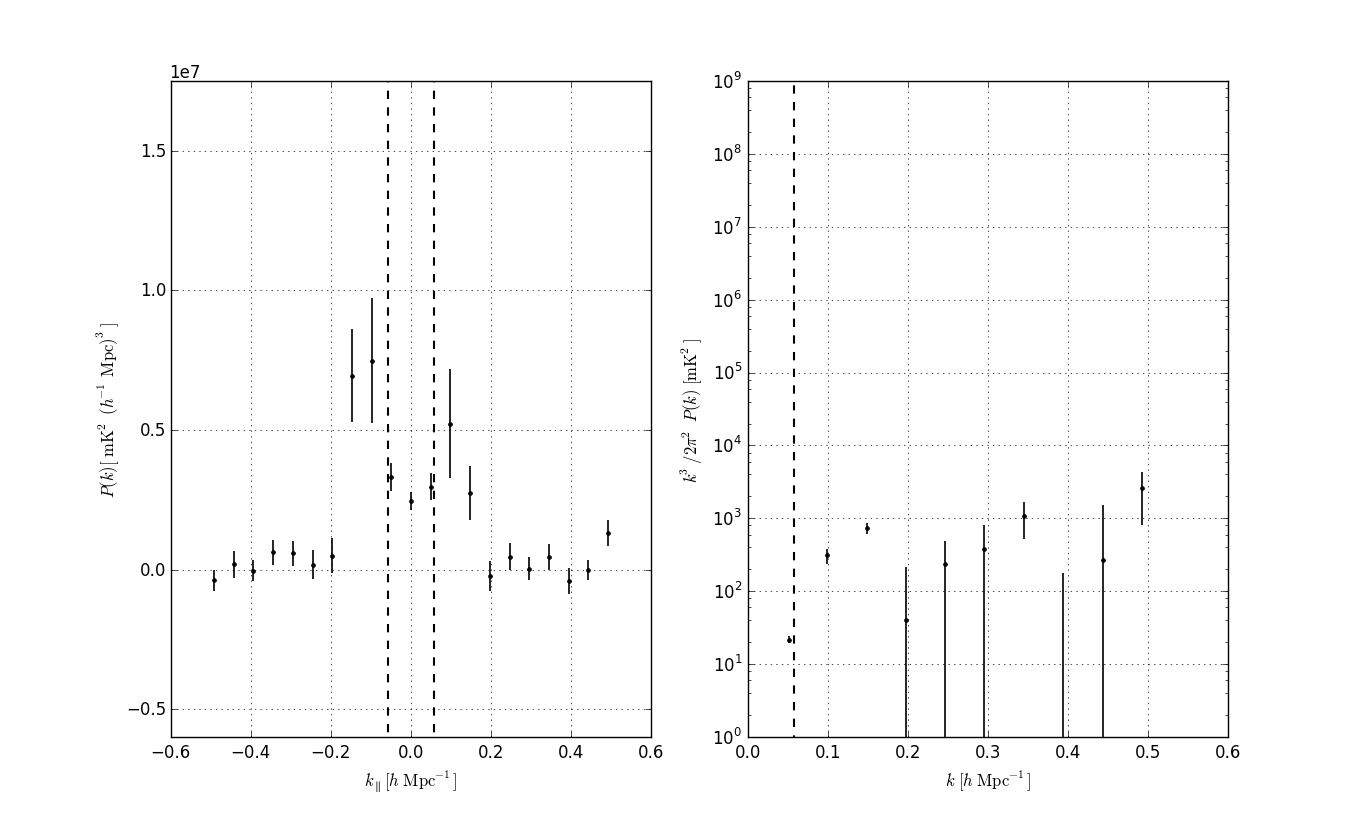
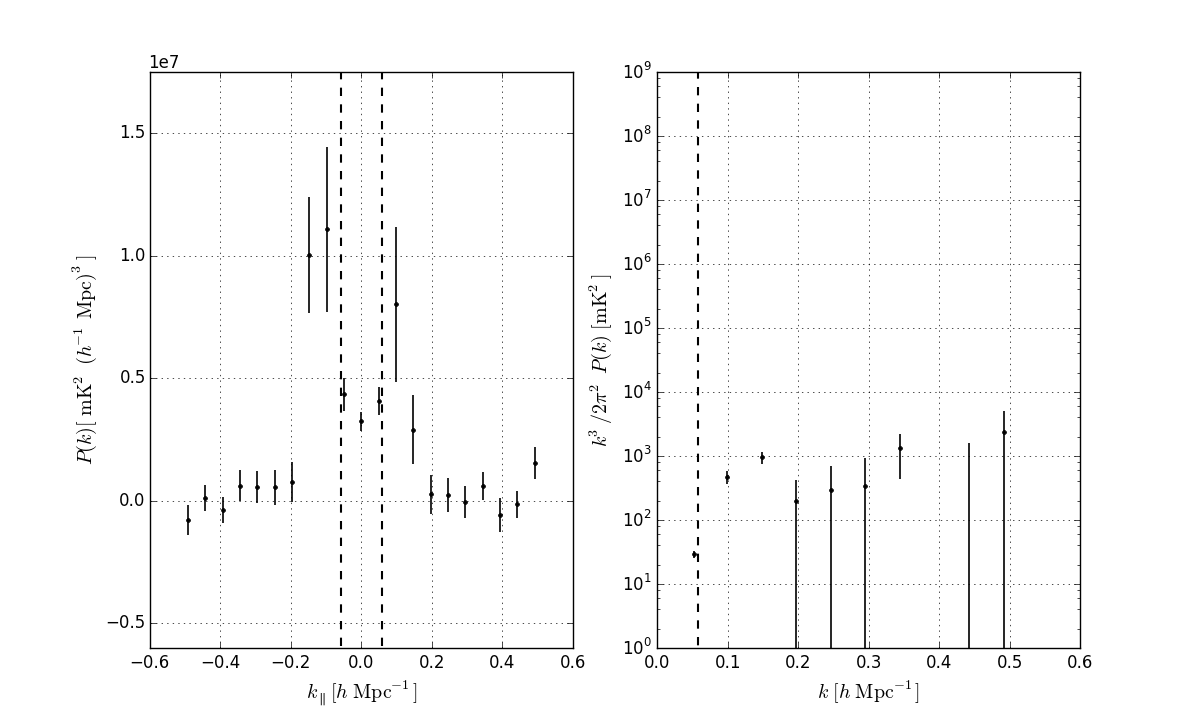
add in final pspec fplots (hopefully)
update capotion with extra info.

diff --git a/psa64_pspec_ver2.tex b/psa64_pspec_ver2.tex
@@ -1901,15 +1901,27 @@ XXX Need to claim that we ran an end to end test.
 \subsection{Bootstrapped Errors}
 %XXX QUESTION FOR BOOTSTRAPPING, Use the input data to the quad est vs output
 %data? Is this why the error bars were so wacked out before?
-We calculate a power spectrum, averaged over baseline cross multiples, for every
-integration. 
-We measure the error in our final power spectrum estimate by bootstrapping over
-baseline samples from the output of the quadratic estimator. That is, we are
-bootstrapping over power spectra averaged over baselines per LST sample. In order
-to tease out the variations between baselines, each bootstrap is a random pull
-of the baselines involvled in the analysis, choosing $N-5$ out of $N$
-baselines. For different baseline types, $N$ ranges from 46 (up/under one and
-over one baselines) to 51 (East-West). 
+When estimating our power spectra via optimal quadratic estimators, we generate
+multiple samples of the power spectrum in order to apply the bootstrap method to
+calculate our error bars. When applying this method of estimating the
+statistical variance in our data, we require that there needs to be a random
+component in our estimates of power spectra. 
+
+We use the baseline axis as our random draw axis. For each bootstrap sample  by
+taking our 
+
+
+
+
+Output from the optimal quadratic estimator power spectrum pipeline, is the
+power spectrum We calculate a power spectrum, averaged over baseline cross
+multiples, for every integration.  We measure the error in our final power
+spectrum estimate by bootstrapping over baseline samples from the output of the
+quadratic estimator. That is, we are bootstrapping over power spectra averaged
+over baselines per LST sample. In order to tease out the variations between
+baselines, each bootstrap is a random pull of the baselines involvled in the
+analysis, choosing $N-5$ out of $N$ baselines. For different baseline types, $N$
+ranges from 46 (up/under one and over one baselines) to 51 (East-West). 
 
 In order to avoid incurring a noise bias, a few restrictions are needed to the
 bootstrapping and power spectrum estimation. First, we break the baselines into
@@ -2228,7 +2240,7 @@ hence \ref{eqn:final_tb} becomes...
 %    Jonnies result.
 %   -the wedge - maybe?
 \begin{figure*}[h!]\centering
-\includegraphics[width=1.5\columnwidth,height=1\columnwidth]{plots/pk_k3pk.png}
+\includegraphics[width=2\columnwidth,height=1.2\columnwidth]{plots/pk_k3pk.png}
 \caption{
 Power spectrum at $z=8.4$ resulting from a 134 day PAPER observation
 with 64 dual polarization antennas layed out in a maximally redundant grid. The
@@ -2240,7 +2252,8 @@ which has the positive and negative $k_{\parallel}$'s averaged together in
 P($k$). XXX (To be done) The solid cyan curve is the power spectrum of the
 foreground contained data. The dashed cyan curve in $\Delta^{2}$ correspond the
 the theoretical 2 sigma error bars for a noise power spectrum with system
-temperature 550 K.
+temperature 550 K. XXX Using 100 bootstraps. Correction factors are fringe rate
+filter (1.9), signal loss (1.15), and median statistic (1.4)
 }
 \label{fig:final_pspec}
 \end{figure*}
@@ -2249,7 +2262,8 @@ temperature 550 K.
 \includegraphics[width=\columnwidth]{plots/flat_k3pk_posterior.png}
 \caption{The posteriror distributiom assuming a flat, gaussian power spectrum in
 $\Delta^{2}$ (blue). The green and red horizontal lines correspond to the 1 and
-2 $\sigma$ upper limits, respectrively, on the power spectrum.}
+2 $\sigma$ upper limits, respectrively, on the power spectrum. XXXfix sigma
+lines to be vertical. Make it look better. Labels.}
 \label{fig:final_posterioir}
 \end{figure}
 
@@ -2281,7 +2295,7 @@ data and non optimal fringe rate filter]
 %
 
 \begin{figure*}[t!]\centering
-\includegraphics[width=1.5\columnwidth]{plots/pspec_comparison.png}
+\includegraphics[width=2\columnwidth]{plots/pspec_comparison.png}
 \caption{The comparison of power spectra with and without various analysis in
 the pipeline applied to it. The blue power spectrum has the full pipeline
 applied to it and is identical to \ref{fig:final_pspec}. The red power spectrum
